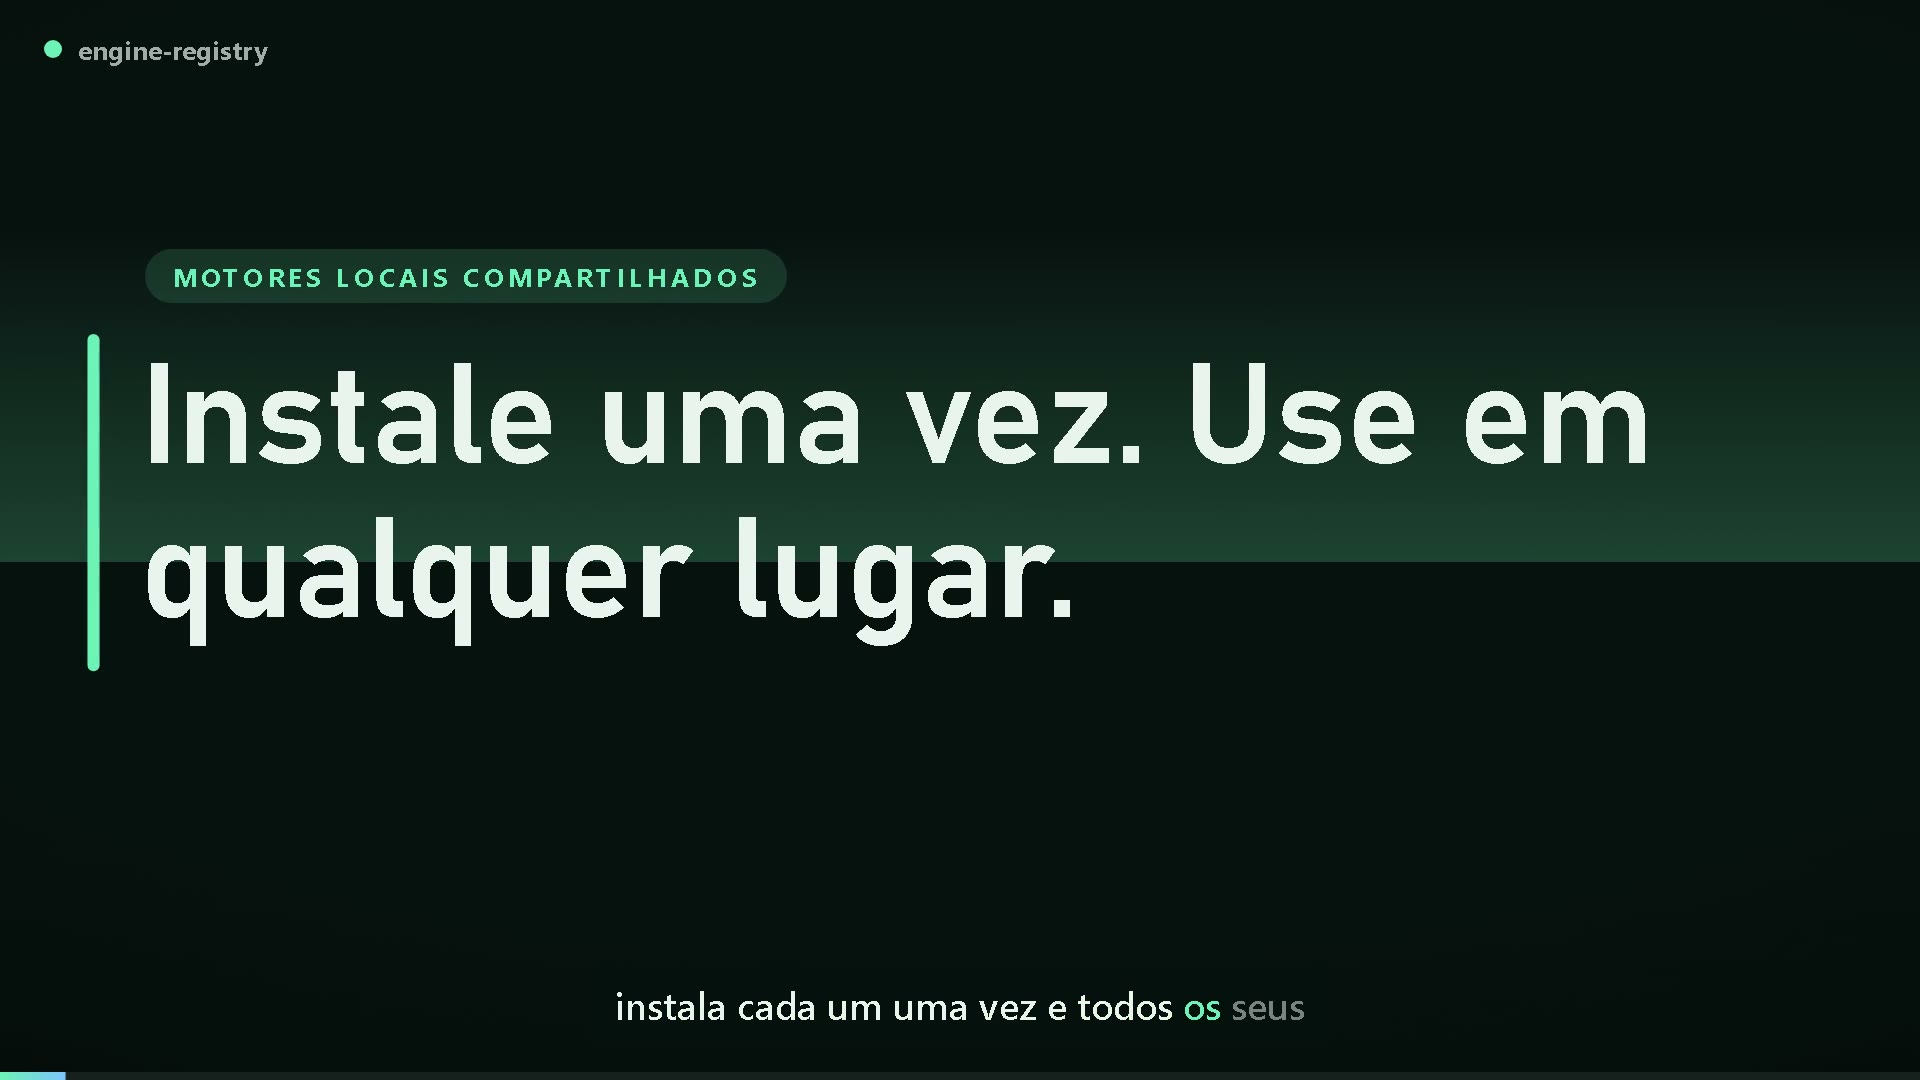
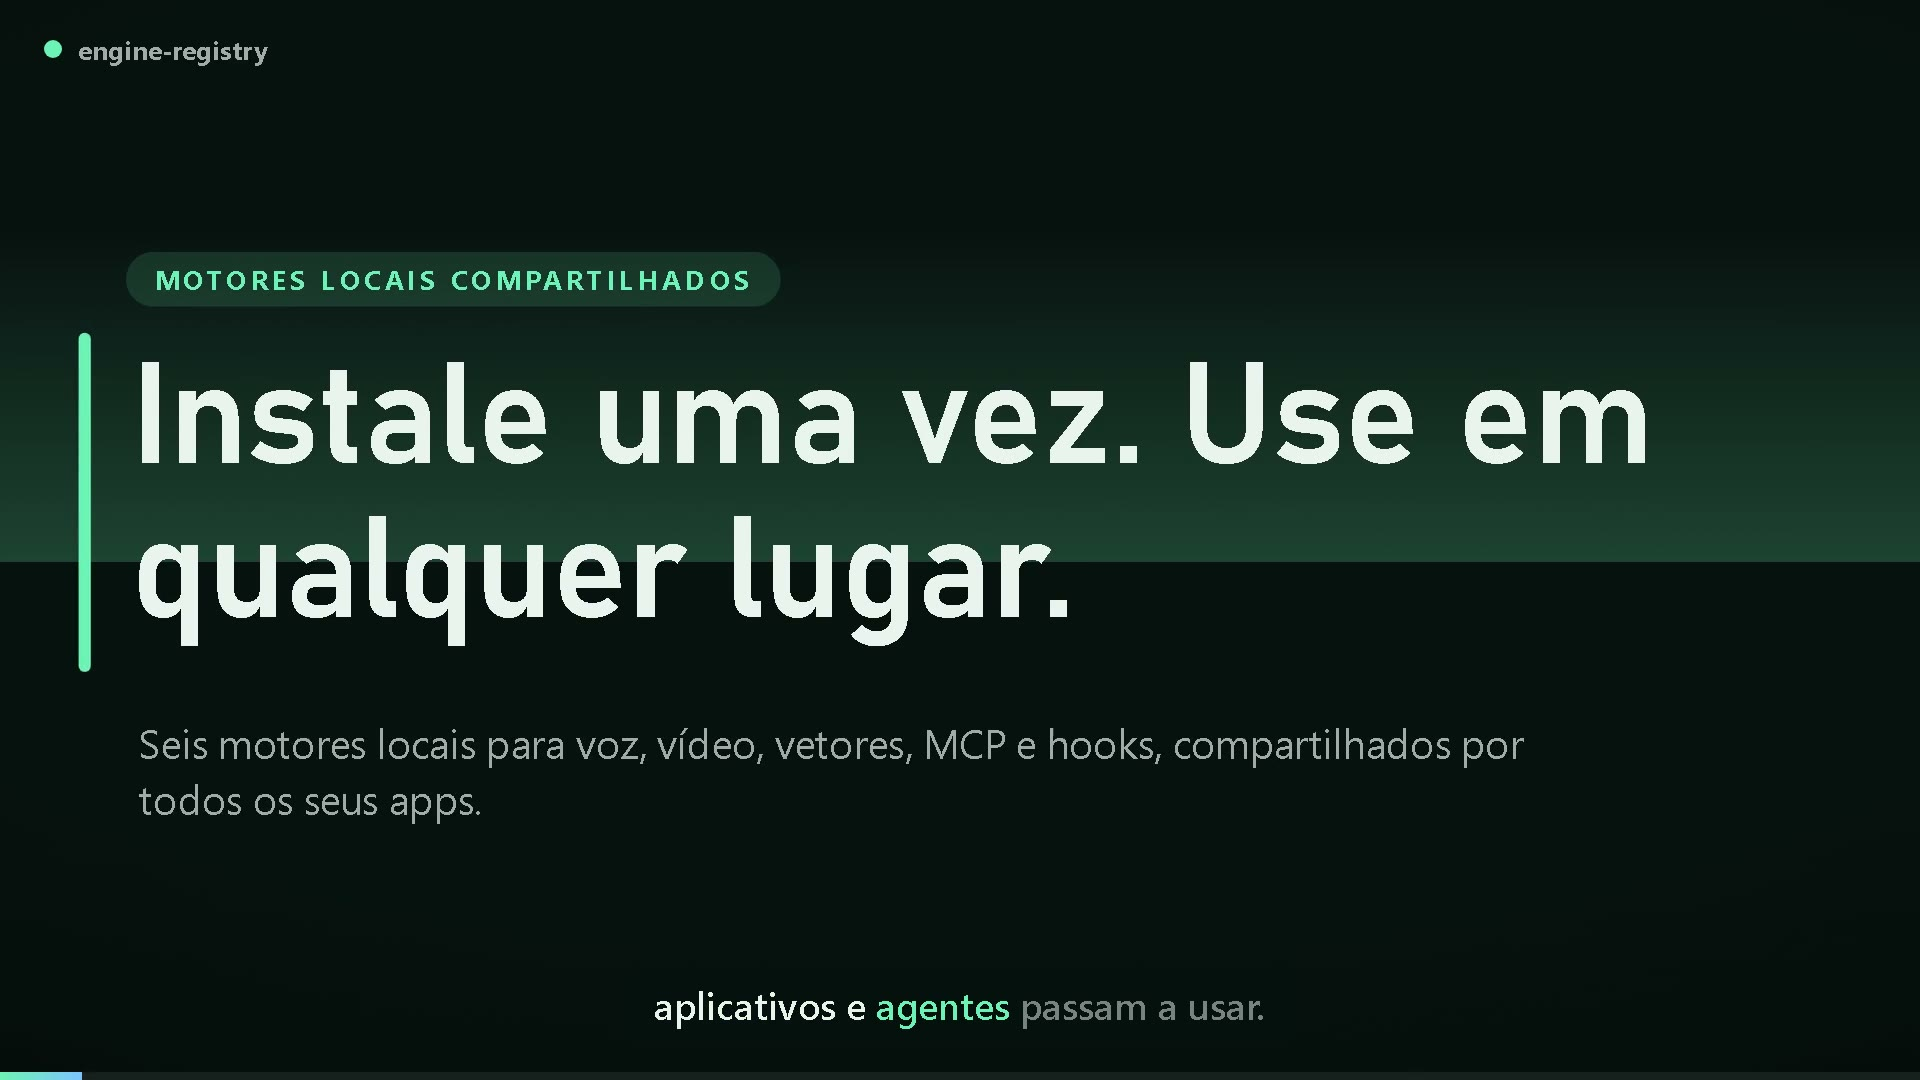
fix(site): video 16:9 sem faixas e cabendo na tela, poster limpo, metricas em 3 colunas, titulo da secao correto

diff --git a/site/assets/styles.css b/site/assets/styles.css
@@ -95,10 +95,10 @@ td .sem{color:var(--fraco)}
 .mapa.prog [data-s]{opacity:0}
 .mapa.prog [data-s].on{opacity:1}
 
-/* vídeo */
-.video{margin-top:28px;border:1px solid var(--linha);border-radius:18px;background:var(--bg2);overflow:hidden}
-.video video{display:block;width:100%;max-height:70vh;background:#000}
-.video .legenda{padding:14px 18px;color:var(--mut);font-size:14px;border-top:1px solid var(--linha)}
+/* vídeo: 16:9 de verdade, sem faixas pretas; a largura acompanha a altura da janela para o vídeo e os controles caberem inteiros */
+.video{margin:28px auto 0;width:min(100%,max(640px,calc((100vh - 400px)*16/9)),1040px);min-width:min(100%,320px);border:1px solid var(--linha);border-radius:18px;background:var(--bg2);overflow:hidden;box-shadow:0 24px 60px rgba(0,0,0,.35)}
+.video video{display:block;width:100%;aspect-ratio:16/9;object-fit:contain;background:#000}
+.video .legenda{padding:12px 18px;color:var(--mut);font-size:14px;border-top:1px solid var(--linha);display:flex;justify-content:space-between;gap:12px;flex-wrap:wrap}
 .video .vazio{padding:46px 20px;text-align:center;color:var(--mut)}
 
 /* como usar */
@@ -110,7 +110,7 @@ td .sem{color:var(--fraco)}
 pre{margin:12px 0 0;padding:12px 14px;border-radius:10px;background:var(--bg);border:1px solid var(--linha);overflow-x:auto;font:500 13.5px/1.5 var(--f-mono);color:var(--menta)}
 
 /* métricas */
-.metricas{display:grid;grid-template-columns:repeat(auto-fit,minmax(220px,1fr));gap:16px;margin-top:28px}
+.metricas{display:grid;grid-template-columns:repeat(3,1fr);gap:16px;margin-top:28px}
 .metrica{background:var(--bg2);border:1px solid var(--linha);border-radius:14px;padding:22px}
 .metrica b{display:block;font:700 40px/1 var(--f-tit);color:var(--menta);margin-bottom:8px}
 .metrica span{color:var(--mut);font-size:14.5px}
@@ -143,6 +143,12 @@ pre{margin:12px 0 0;padding:12px 14px;border-radius:10px;background:var(--bg);bo
   .apres-corpo{grid-template-columns:1fr;overflow-y:auto;align-items:start}
   .fichas{grid-template-columns:repeat(2,1fr)}
   .nav{display:none}
+  .metricas{grid-template-columns:repeat(2,1fr)}
+}
+@media (max-width:520px){
+  .metricas{grid-template-columns:1fr}
+  .grade{grid-template-columns:1fr}
+  .video .legenda span:last-child{display:none}
 }
 @media (prefers-reduced-motion:reduce){
   html{scroll-behavior:auto}

diff --git a/site/index.html b/site/index.html
@@ -135,14 +135,14 @@
 
   <section class="secao" id="video" aria-labelledby="h-video">
     <p class="eyebrow">Apresentação</p>
-    <h2 id="h-video">Veja em poucos minutos.</h2>
+    <h2 id="h-video">Veja em pouco mais de dois minutos.</h2>
     <p class="lead">Um vídeo curto mostra os seis motores trabalhando juntos. Prefere acompanhar passo a passo? O botão Apresentar abre a mesma história em tela cheia, com narração.</p>
     <div class="video" id="video-box">
       <video id="apresentacao" controls preload="metadata" poster="media/apresentacao-poster.jpg">
         <source src="media/apresentacao.mp4" type="video/mp4">
       </video>
       <p class="vazio" id="video-vazio" hidden>O vídeo de apresentação ainda não está disponível nesta cópia do site.</p>
-      <p class="legenda">Vídeo de apresentação do engine-registry.</p>
+      <p class="legenda"><span>Apresentação do engine-registry · 2 min 20 s · com narração</span><span>Tela cheia: botão no canto do vídeo</span></p>
     </div>
   </section>
 
